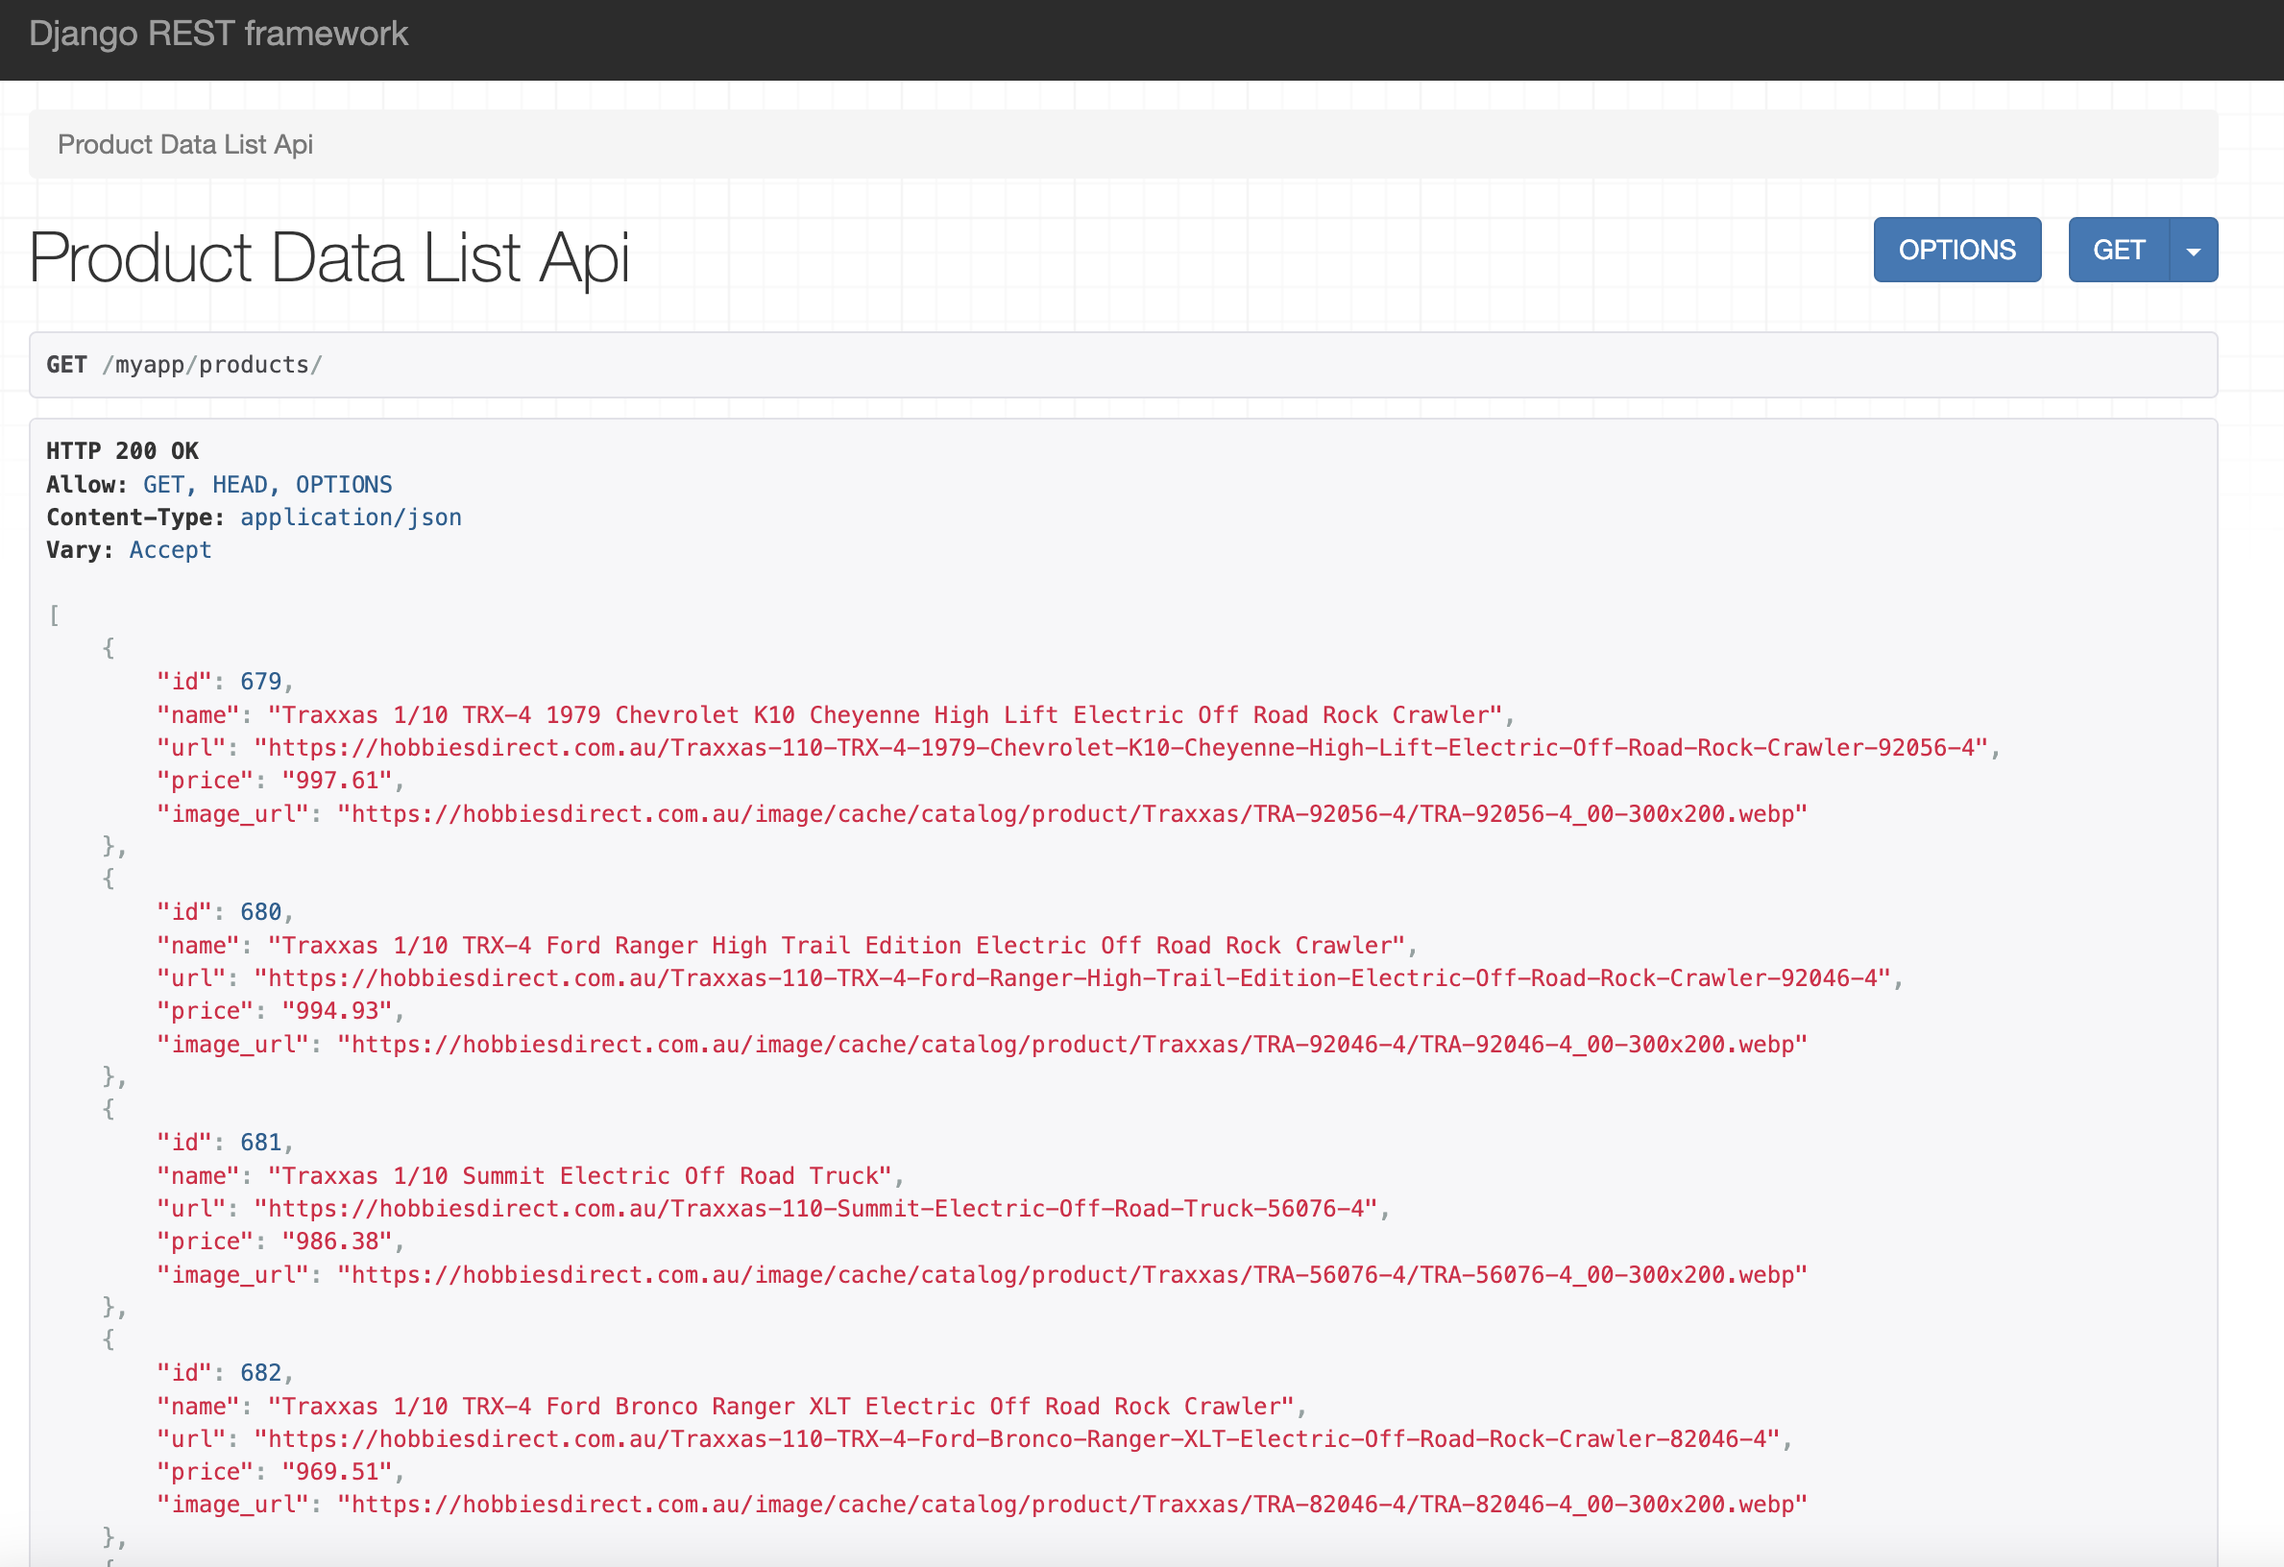
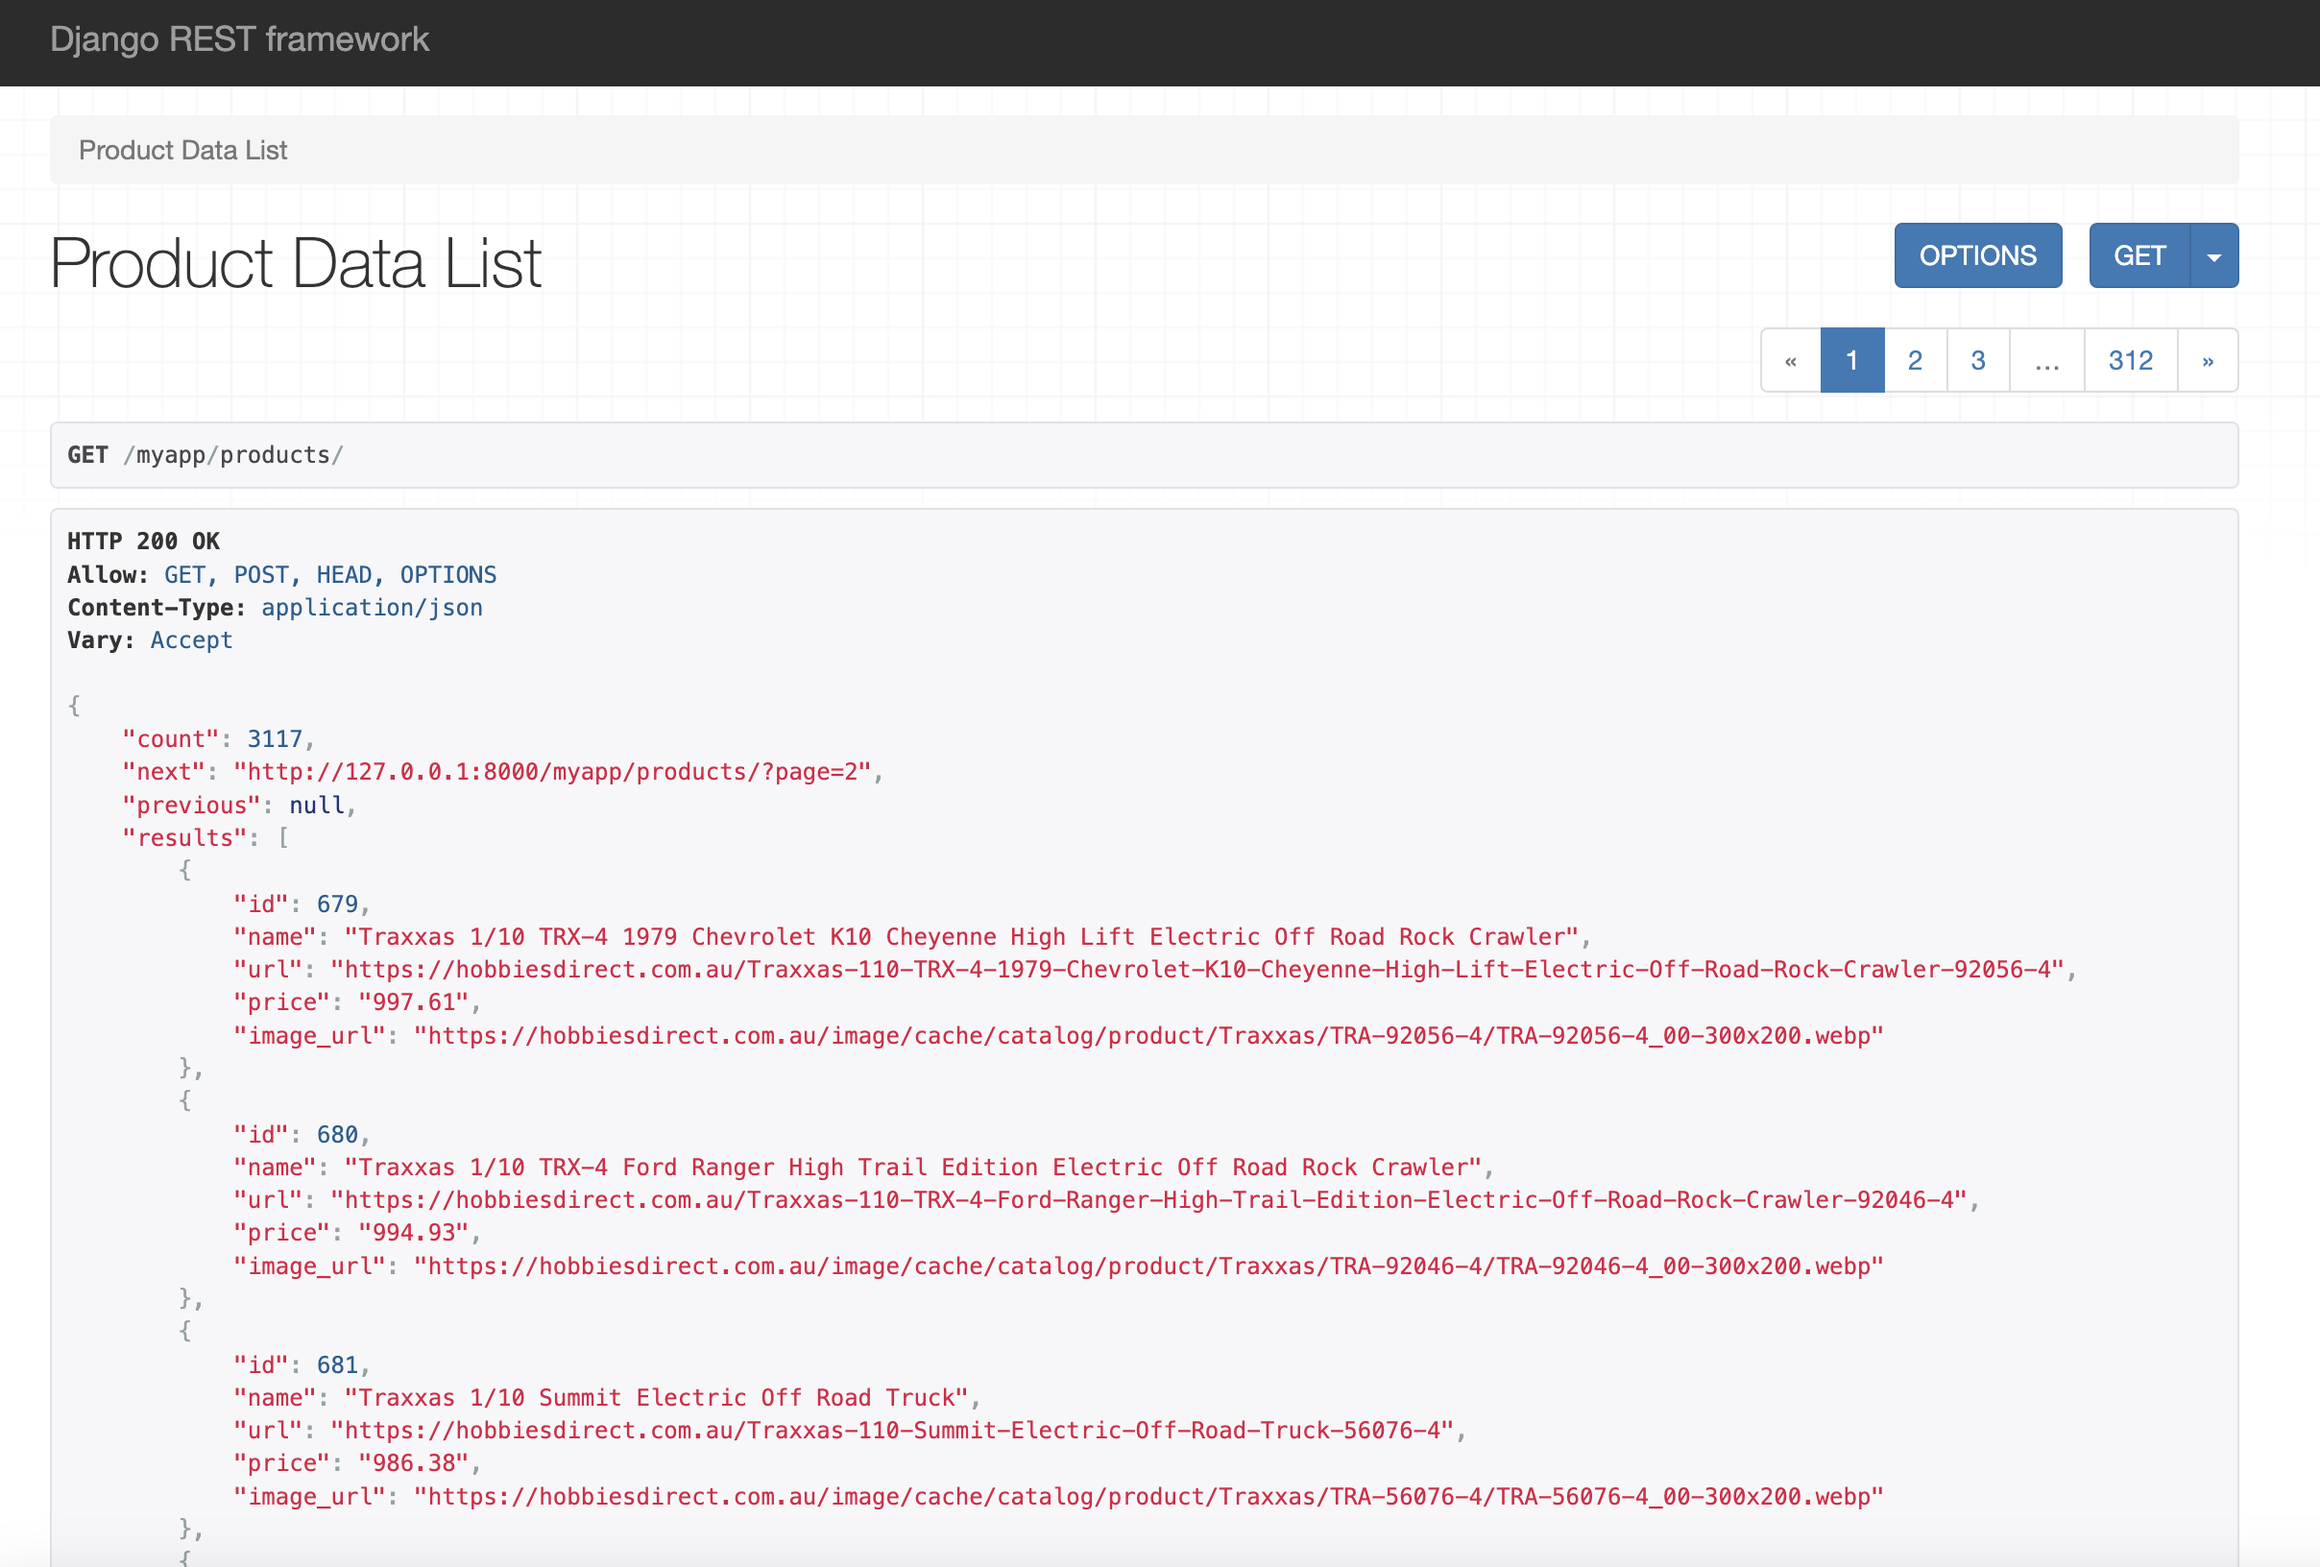
modify settings.py, serializers.py,urls.py, views.py

diff --git a/myapp/views.py b/myapp/views.py
@@ -1,18 +1,23 @@
 from django.shortcuts import render
 from django.http import HttpRequest, JsonResponse
-##
-from rest_framework.generics import ListAPIView
-from .models import ProductData
+from rest_framework.generics import ListCreateAPIView
 from .serializers import ProductDataSerializer
+from .models import ProductData
+from rest_framework.pagination import PageNumberPagination
 
 # Create your views here.
-def productdata(request:HttpRequest):
-    response={
-        "message":"Hello World"
+def productdata(request: HttpRequest):
+    response = {
+        "message": "Hello World"
     }
     return JsonResponse(data=response)
 
+class CustomPageNumberPagination(PageNumberPagination):
+    page_size = 10
+    page_size_query_param = 'page_size'
+    max_page_size = 100
 
-class ProductDataListAPIView(ListAPIView):
+class ProductDataListView(ListCreateAPIView):
     queryset = ProductData.objects.all()
     serializer_class = ProductDataSerializer
+    pagination_class = CustomPageNumberPagination

diff --git a/myapp/urls.py b/myapp/urls.py
@@ -1,9 +1,9 @@
 from . import views
 from django.urls import path
-from .views import ProductDataListAPIView
+from .views import ProductDataListView
 
 urlpatterns = [
     path("productdata/", views.productdata, name="productdata"),
-    path('products/', ProductDataListAPIView.as_view(), name='product-list'),
+    path('products/', ProductDataListView.as_view(), name='product-list'),
 ]
 

diff --git a/myproject/settings.py b/myproject/settings.py
@@ -131,3 +131,9 @@ STATIC_URL = 'static/'
 # https://docs.djangoproject.com/en/4.2/ref/settings/#default-auto-field
 
 DEFAULT_AUTO_FIELD = 'django.db.models.BigAutoField'
+
+
+REST_FRAMEWORK = {
+    'DEFAULT_PAGINATION_CLASS': 'rest_framework.pagination.PageNumberPagination',
+    'PAGE_SIZE': 10,
+}
